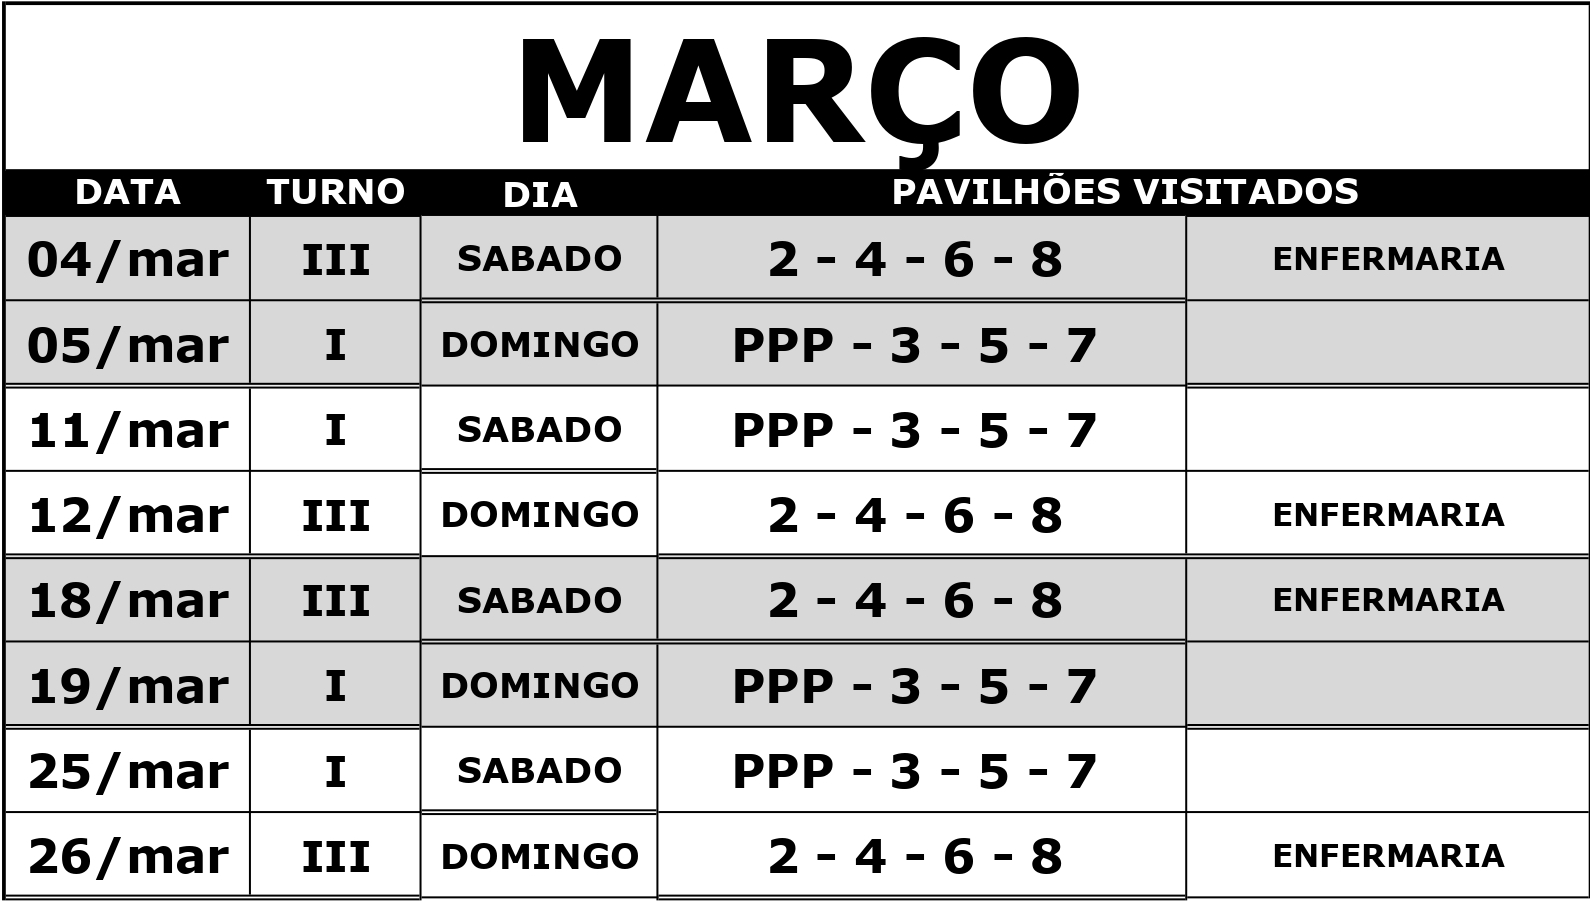
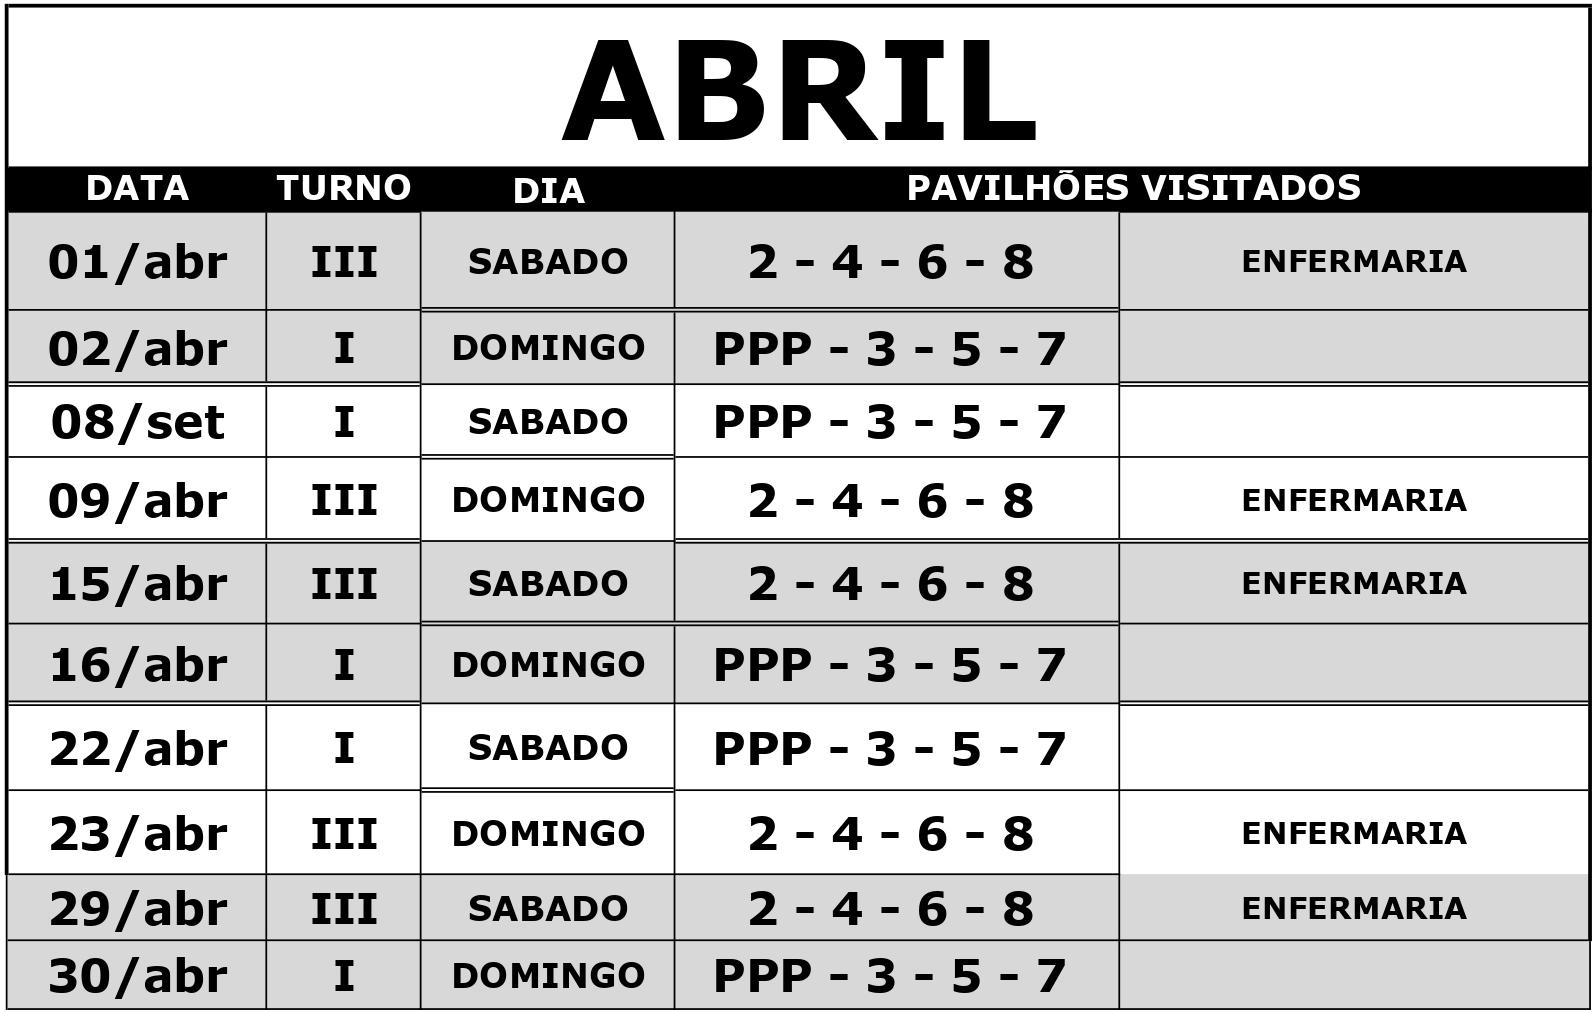
calendario abril

diff --git a/index.html b/index.html
@@ -47,9 +47,9 @@
       </section>-->
       <section>
         <h2>Últimas Informações</h2>
+        <section><img src="imagens/calendario.jpg" alt="Informações sobre o Calendário"></section>
         <p>Alteração sobre o Envio de PIX. <a href="pix.html">Clique aqui</a> para visualizar</p>
         <p style="background-color: rgb(231, 137, 137);">Informações sobre o envio de documentos para o Rol de Visitas via E-mail. <a href="documentacao.html">Clique Aqui</a> para visualizar.</p>
-        <section><img src="imagens/calendario.jpg" alt="Informações sobre o Calendário"></section>
         <!--<section><img src="imagens/cal_jan1.jpg" alt="Informações sobre o Calendário"></section>-->
         <section><img src="imagens/notificação_vacina_11.11.22.png" alt="Comprovante de Vacinação"></section>
         <p>Alterações sobre o calendário de visitação e do jumbo. <a href="orientacao.html">Clique aqui para visualizar</a></p>

diff --git a/calendario.html b/calendario.html
@@ -32,7 +32,7 @@
         <h2>Calendário de Visitação</h2>
         <img src="imagens/calendario.jpg" alt="Calendário de Visitação">
         <!--<img src="imagens/cal_jan1.jpg" alt="Calendário de Visitação">-->
-        <p style="text-align: center;">Atualizado dia 02/03/2023</p>
+        <p style="text-align: center;">Atualizado dia 30/03/2023</p>
         <!--<p style="color: red; font-weight: bold; text-align: center;">DEVIDO AS ELEIÇÕES, A VISITAÇÃO DO DIA 02/10/2022 TERÁ SEU HORÁRIO ALERADO. DAS 10H ÀS 16H.</p>-->
       </section>
     </main>
